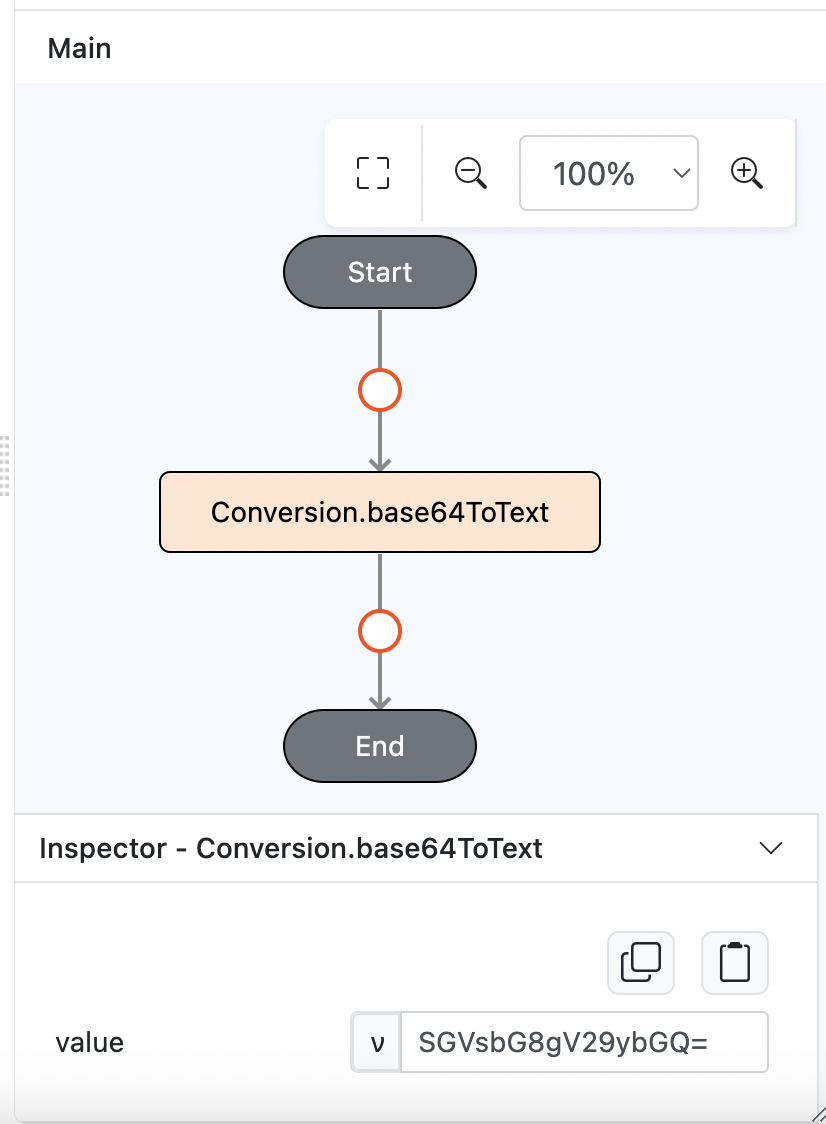
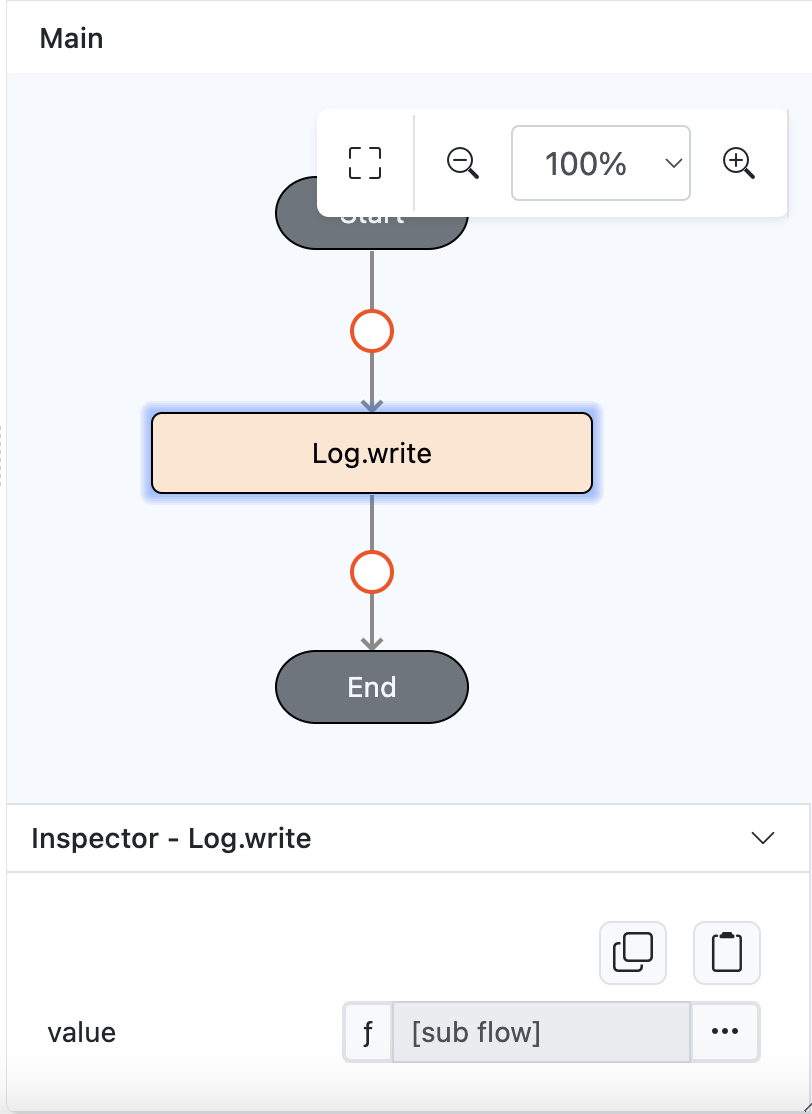
EP-1339-Added Log write inside the step

diff --git a/document/client/006-actions-and-visual-logic/action-reference/react-native/Conversion/base64ToText/base64ToText.md b/document/client/006-actions-and-visual-logic/action-reference/react-native/Conversion/base64ToText/base64ToText.md
@@ -7,14 +7,18 @@ Converts Base64 encoded text strings back into their original text format.
 ## Input / Parameter
 
 | Name  | Description                                             | Input Type | Default | Options | Required |
-| ----- | -------------------------------------------------------| ---------- | ------- | ------- | -------- |
-| value | The Base64 encoded text strings to be converted. | Text/List  | -       | -       | Yes      |
+| ----- | ------------------------------------------------------- | ---------- | ------- | ------- | -------- |
+| value | The Base64 encoded text strings to be converted.        | Text/List  | -       | -       | Yes      |
 
 ## Output
 
 | Description                                   | Output Type |
 | --------------------------------------------- | ----------- |
-| Returns the original text format.            | Object      |
+| Returns the original text format.             | Object      |
+
+## Example
+
+In this example, we will convert a base64 to string and print the result in the console.
 
 ### Steps
 
@@ -25,13 +29,25 @@ Converts Base64 encoded text strings back into their original text format.
         style="width: 50%; padding: 5px;"/>
     </div>
 
-2. Select the event `press` for the button and drag the `Conversion.base64ToText` function to the event flow. Fill in the parameter with the Base64 encoded text or list to be converted.
+2. Drag `Log.write` to event flow and put `Conversion.base64ToText` inside the function parameter.
 
     <div style="display:flex; align-items:center; justify-content:center; background-color: #E7F1FF;">
         <img src="./base64ToText-step-2.png"
+        style="width: 50%; padding: 5px;"/>
+    </div>
+
+3. Drag the `Conversion.base64ToText` function to the `Log.write` event function. Fill in the parameter with the Base64 encoded text or list to be converted.
+
+    <div style="display:flex; align-items:center; justify-content:center; background-color: #E7F1FF;">
+        <img src="./base64ToText-step-3.png"
         style="width: 100%; padding: 5px;"/>
     </div>
 
 ### Result
 
-1. Upon pressing the button, the Base64 encoded text or list will be decoded back into its original string(s).
+1. Upon pressing the button, the Base64 encoded will be decoded back into its original string.
+
+    <div style="display:flex; align-items:center; justify-content:center; background-color: #E7F1FF;">
+        <img src="./base64ToText-result.png"
+        style="width: 100%; padding: 5px;"/>
+    </div>
